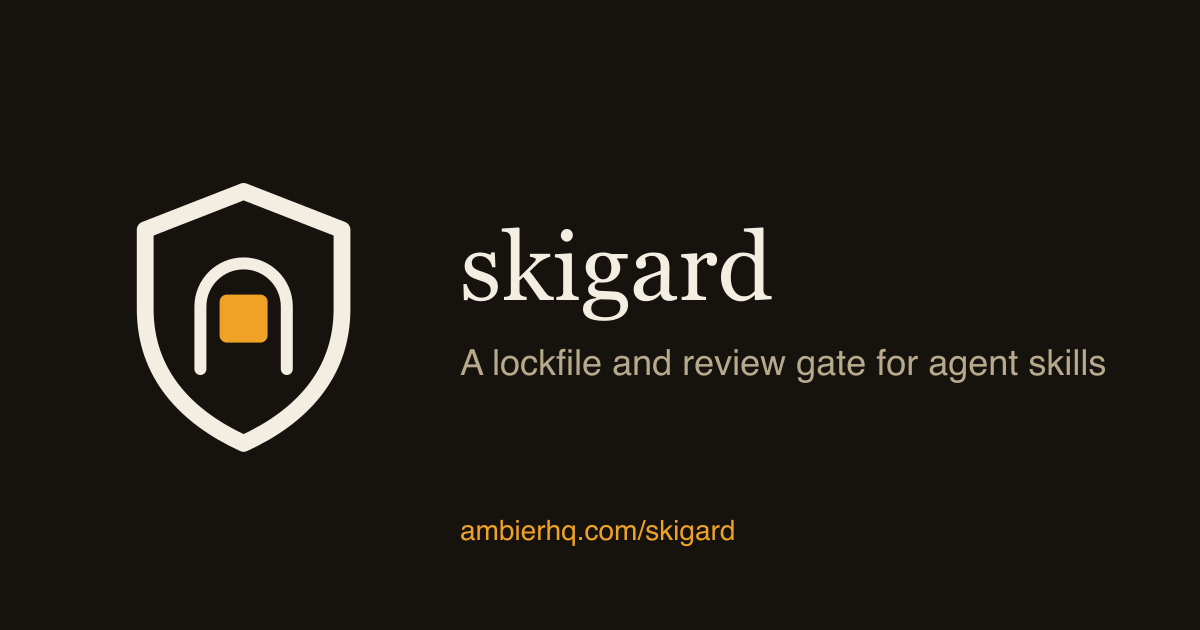
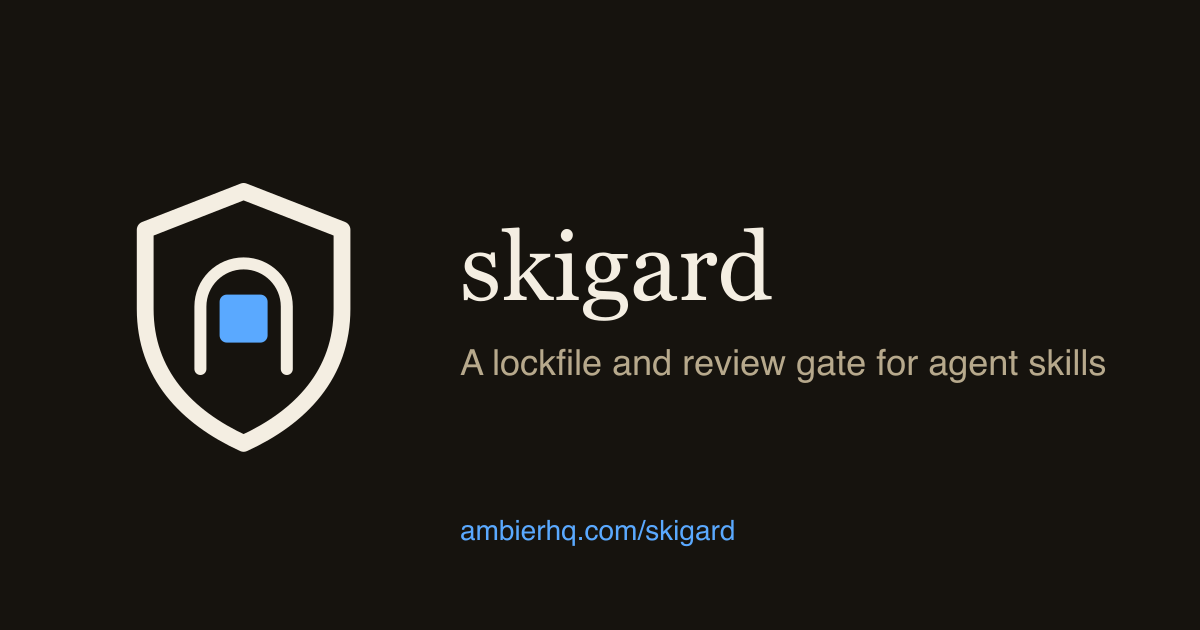
feat(site): sky blue accent (token in src/styles/skigard.css), mark and OG card

Changed region(s): [[0.37, 0.8143, 0.6167, 0.8746], [0.185, 0.4524, 0.2467, 0.5429]]

diff --git a/website/src/styles/starlight.css b/website/src/styles/starlight.css
@@ -3,8 +3,8 @@
 :root[data-theme="light"],
 :root[data-theme="dark"] {
   color-scheme: dark;
-  --sl-color-accent-low: #3a2a0c;
-  --sl-color-accent: #b9760b;
+  --sl-color-accent-low: #12263d;
+  --sl-color-accent: var(--skigard-accent-on-light);
   --sl-color-accent-high: var(--ambier-accent);
   --sl-color-white: var(--ambier-fg);
   --sl-color-gray-1: #e6dfcf;

diff --git a/website/src/styles/skigard.css b/website/src/styles/skigard.css
@@ -1,0 +1,6 @@
+/* skigard's accent. The Ambier company site keeps amber; this is the one place the tool's accent lives. */
+:root {
+  --ambier-accent: #5aa9ff; /* sky blue on dark */
+  --ambier-accent-dim: rgba(90, 169, 255, 0.35);
+  --skigard-accent-on-light: #2b6cb0;
+}
